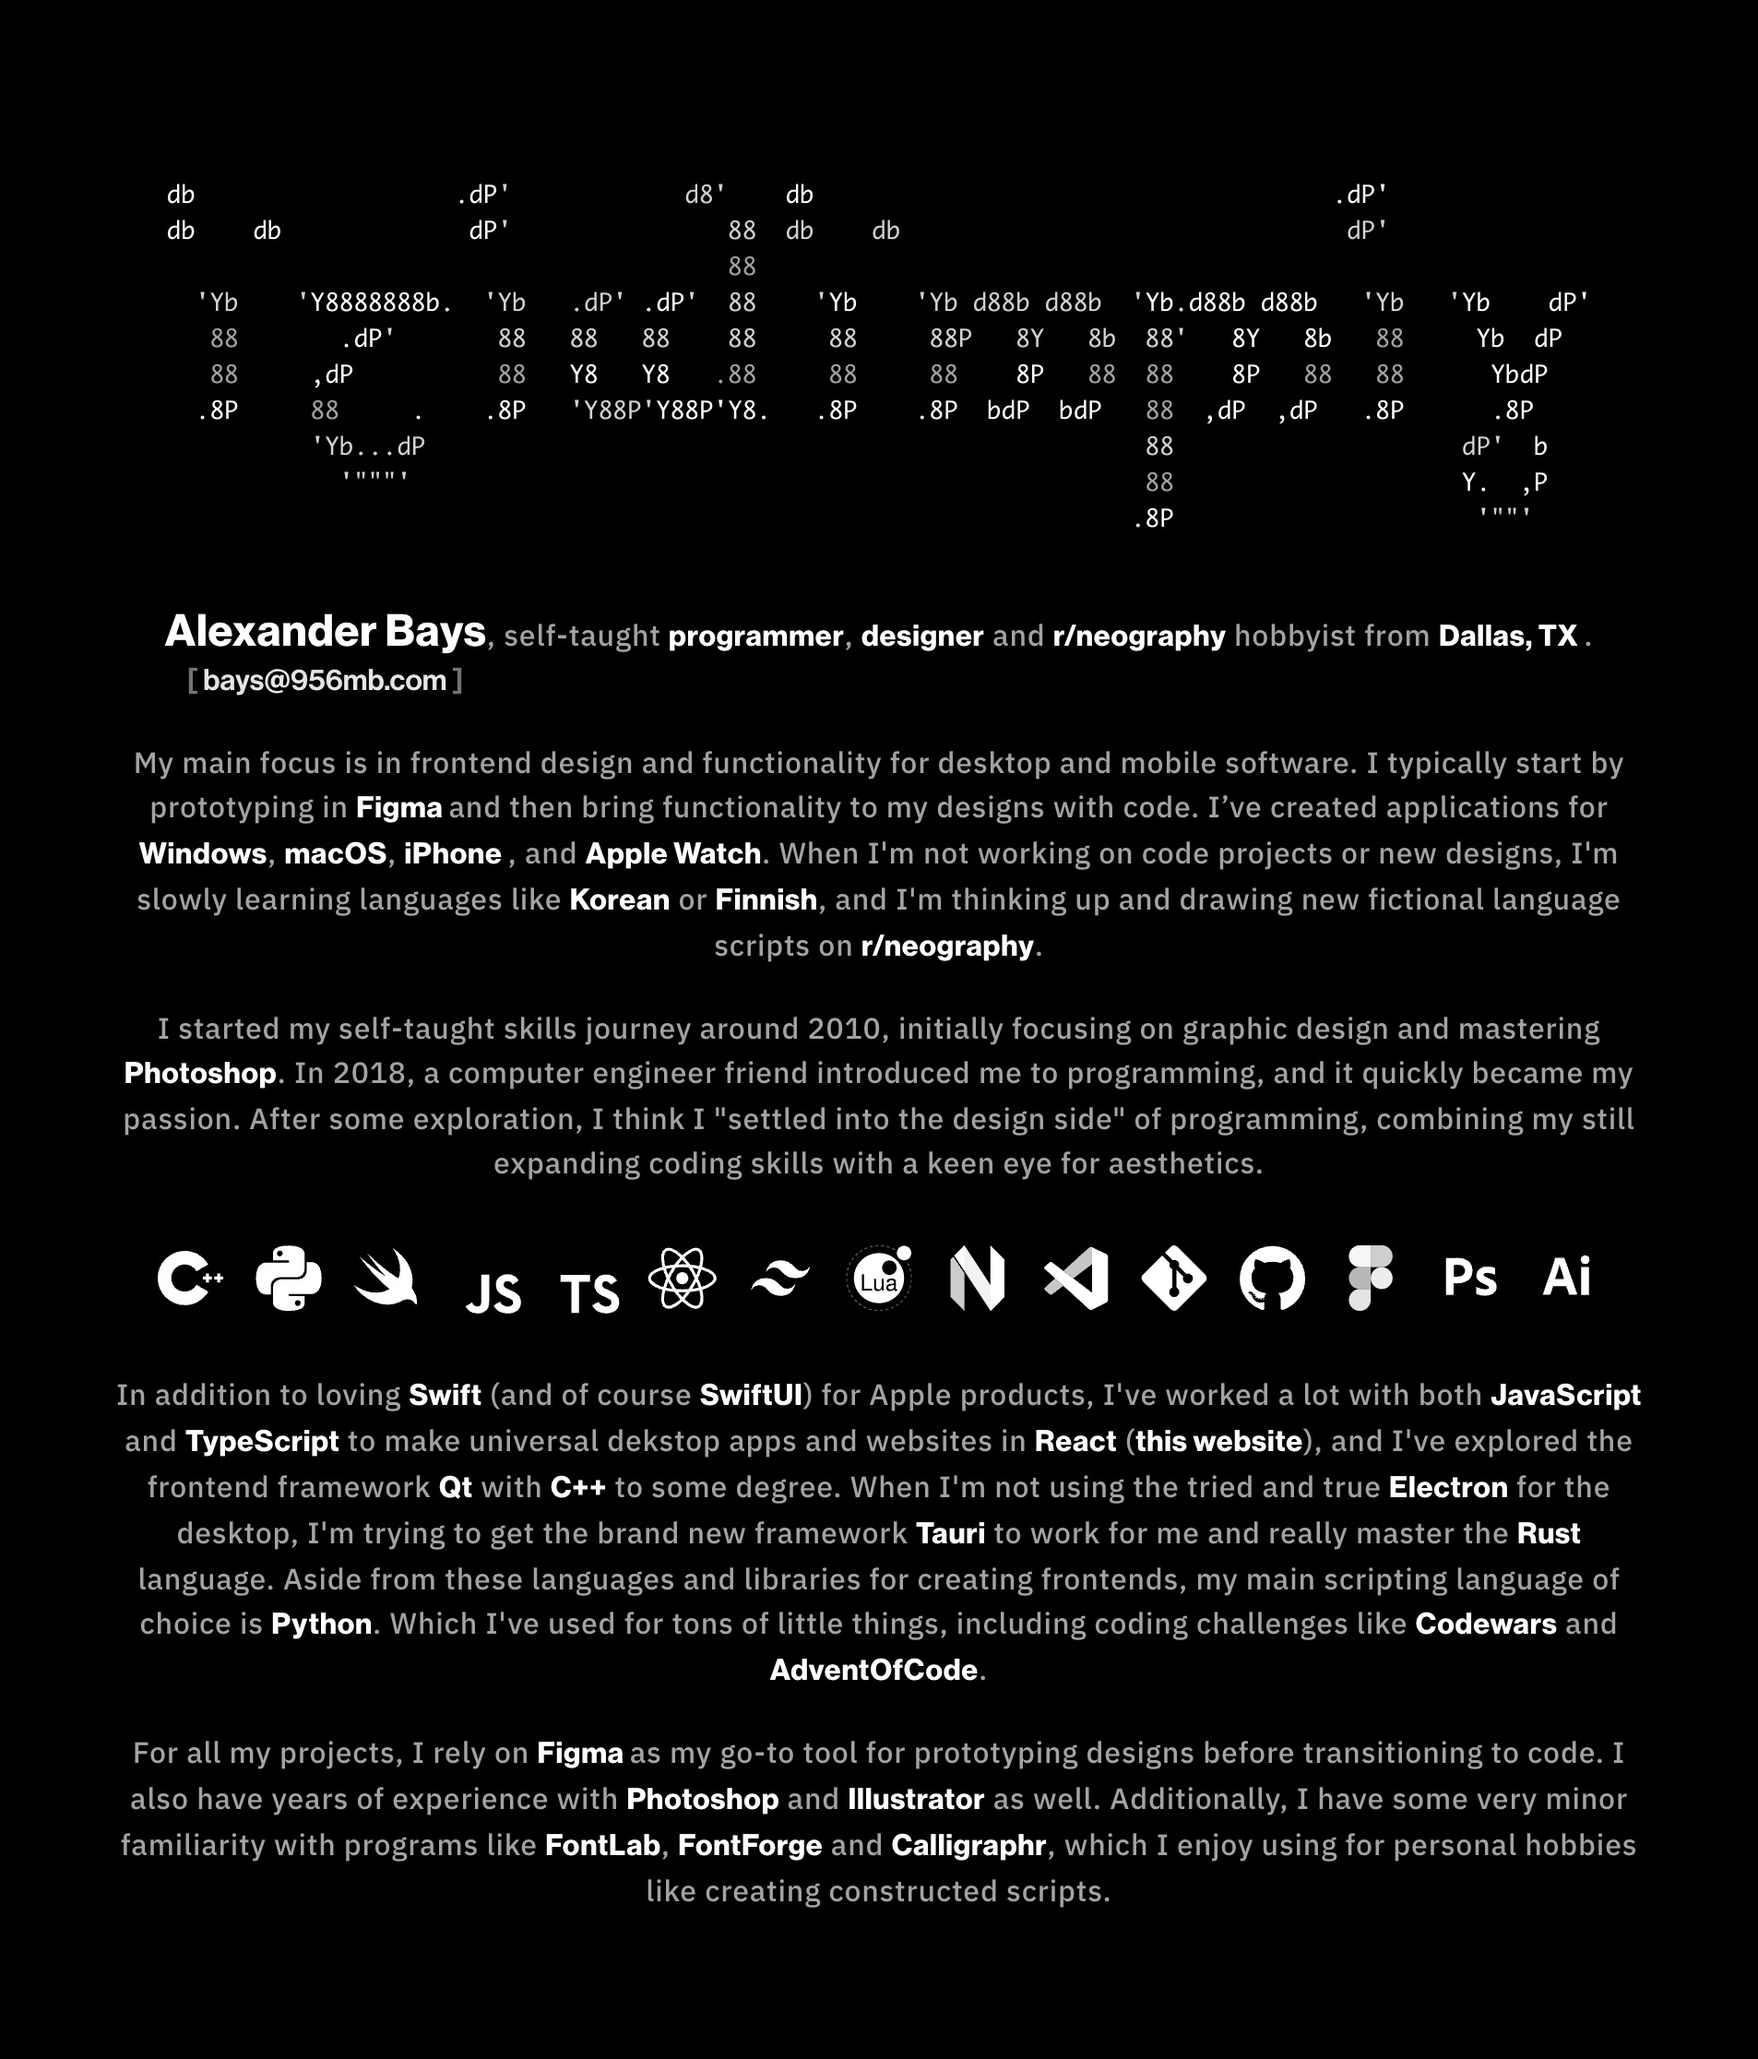
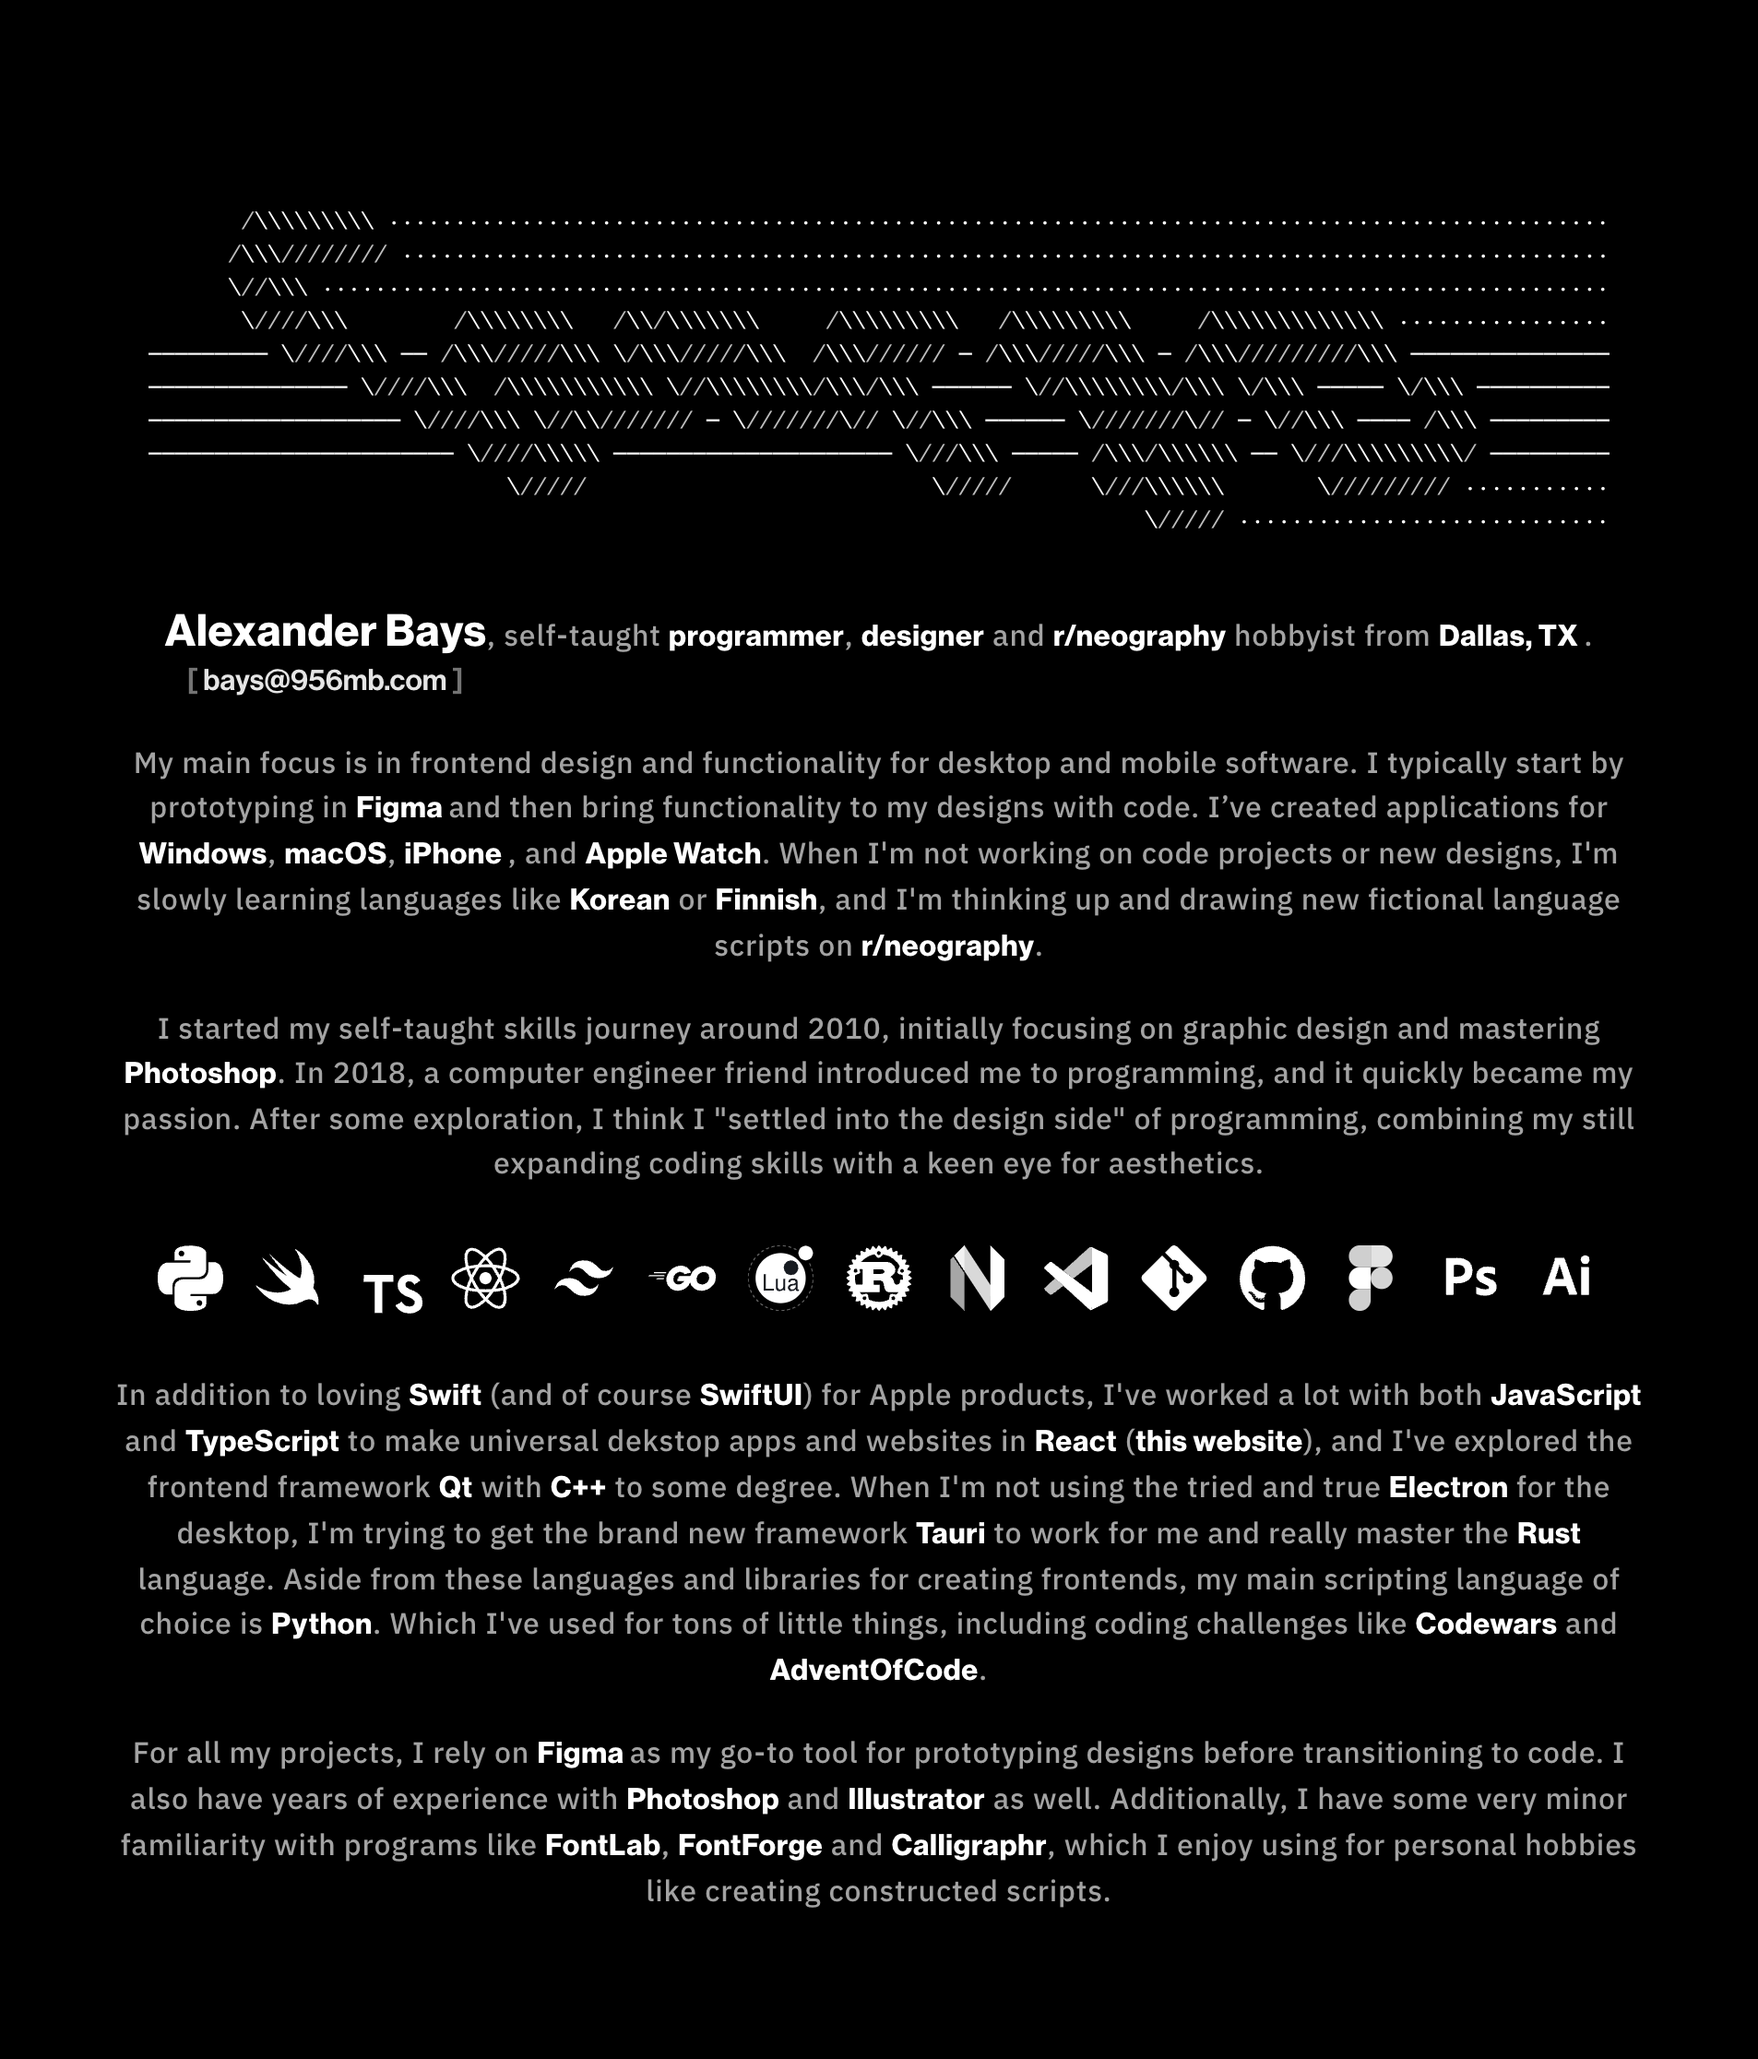
updated ascii art

diff --git a/app/page.tsx b/app/page.tsx
@@ -5,18 +5,18 @@ import Markdown from "react-markdown";
 import { Prism as SyntaxHighlighter } from "react-syntax-highlighter";
 import { dark } from "react-syntax-highlighter/dist/esm/styles/prism";
 
-const markdown = `
+const markdown = String.raw`
 ~~~python
-db                  .dP'            d8'    db                                    .dP'           
-db    db             dP'               88  db    db                               dP'              
-                                       88                                                          
-  'Yb    'Y8888888b.  'Yb   .dP' .dP'  88    'Yb    'Yb d88b d88b  'Yb.d88b d88b   'Yb   'Yb    dP'
-   88       .dP'       88   88   88    88     88     88P   8Y   8b  88'   8Y   8b   88     Yb  dP  
-   88     ,dP          88   Y8   Y8   .88     88     88    8P   88  88    8P   88   88      YbdP   
-  .8P     88     .    .8P   'Y88P'Y88P'Y8.   .8P    .8P  bdP  bdP   88  ,dP  ,dP   .8P      .8P    
-          'Yb...dP                                                  88                    dP'  b   
-            '"""'                                                   88                    Y.  ,P   
-                                                                   .8P                     '""'    
+       /\\\\\\\\\ ····························································································
+      /\\\//////// ···························································································
+      \//\\\ ·································································································
+       \////\\\        /\\\\\\\\   /\\/\\\\\\\     /\\\\\\\\\   /\\\\\\\\\     /\\\\\\\\\\\\\ ················
+───────── \////\\\ ── /\\\/////\\\ \/\\\/////\\\  /\\\////// ─ /\\\/////\\\ ─ /\\\/////////\\\ ───────────────
+─────────────── \////\\\  /\\\\\\\\\\\ \//\\\\\\\\/\\\/\\\ ────── \//\\\\\\\\/\\\ \/\\\ ───── \/\\\ ──────────
+─────────────────── \////\\\ \//\\/////// ─ \///////\// \//\\\ ────── \///////\// ─ \//\\\ ──── /\\\ ─────────
+─────────────────────── \////\\\\\ ───────────────────── \///\\\ ───── /\\\/\\\\\\ ── \///\\\\\\\\\/ ─────────
+                           \/////                          \/////      \///\\\\\\       \///////// ···········
+                                                                           \///// ····························
 ~~~
 `;
 
@@ -26,7 +26,7 @@ export default async function AboutPage() {
             <div className="relative mx-auto flex flex-col items-start gap-y-2 px-6 pb-12 pt-5 sm:max-w-4xl sm:justify-start sm:gap-y-0 sm:px-7 sm:pt-16 lg:gap-y-0">
                 <div className="mb-6 hidden w-full flex-row items-center justify-center align-middle md:flex">
                     <Markdown
-                        className="text-right text-[12px] leading-4 saturate-0 lg:text-[13px]"
+                        className="text-right text-[12px] leading-4 saturate-0"
                         children={markdown}
                         components={{
                             code(props) {

diff --git a/components/NavBar.tsx b/components/NavBar.tsx
@@ -76,10 +76,6 @@ export default function Header() {
                             priority
                         />
                     </Link>
-
-                    {pathname === "/" && (
-                        <div className="absolute inset-x-0 bottom-0 h-[3px] bg-white"></div>
-                    )}
                 </div>
 
                 <div className="inline-flex h-full w-full flex-row items-center gap-9 overflow-hidden sm:w-auto sm:justify-center">
